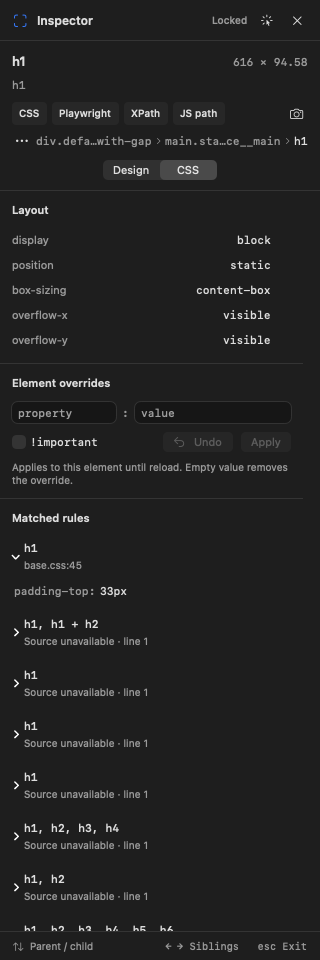
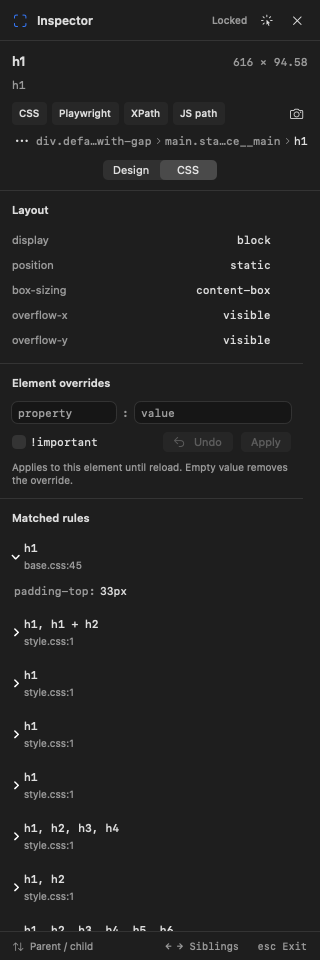
fix(inspector): enable page resources before source lookup

diff --git a/Sources/ArcusisBrowser/InspectorModel.swift b/Sources/ArcusisBrowser/InspectorModel.swift
@@ -148,6 +148,7 @@ final class InspectorModel {
         else { throw InspectorFailure("This page is no longer available.") }
         _ = try await evaluate(InspectorPageScript.install)
         _ = try await evaluate(InspectorStyleScript.install)
+        _ = try await call("Page.enable")
         _ = try await call("DOM.enable")
         _ = try await call("DOM.getDocument", params: ["depth": 0])
         _ = try await call("CSS.enable")

diff --git a/Sources/ChromiumBridge/ChromiumInspector.mm b/Sources/ChromiumBridge/ChromiumInspector.mm
@@ -42,7 +42,7 @@
       @"Runtime.releaseObjectGroup", @"DOM.enable",
       @"DOM.getDocument", @"DOM.requestNode", @"DOM.getBoxModel", @"CSS.enable",
       @"CSS.getPlatformFontsForNode", @"CSS.getBackgroundColors", @"CSS.getMatchedStylesForNode",
-      @"CSS.getComputedStyleForNode", @"CSS.getStyleSheetText", @"Page.getResourceTree",
+      @"CSS.getComputedStyleForNode", @"CSS.getStyleSheetText", @"Page.enable", @"Page.getResourceTree",
       @"Page.getResourceContent", @"Page.captureScreenshot", @"Overlay.enable", @"Overlay.disable",
       @"Overlay.setShowGridOverlays", @"Overlay.setShowFlexOverlays", @"Overlay.getGridHighlightObjectsForTest"]];
   });
